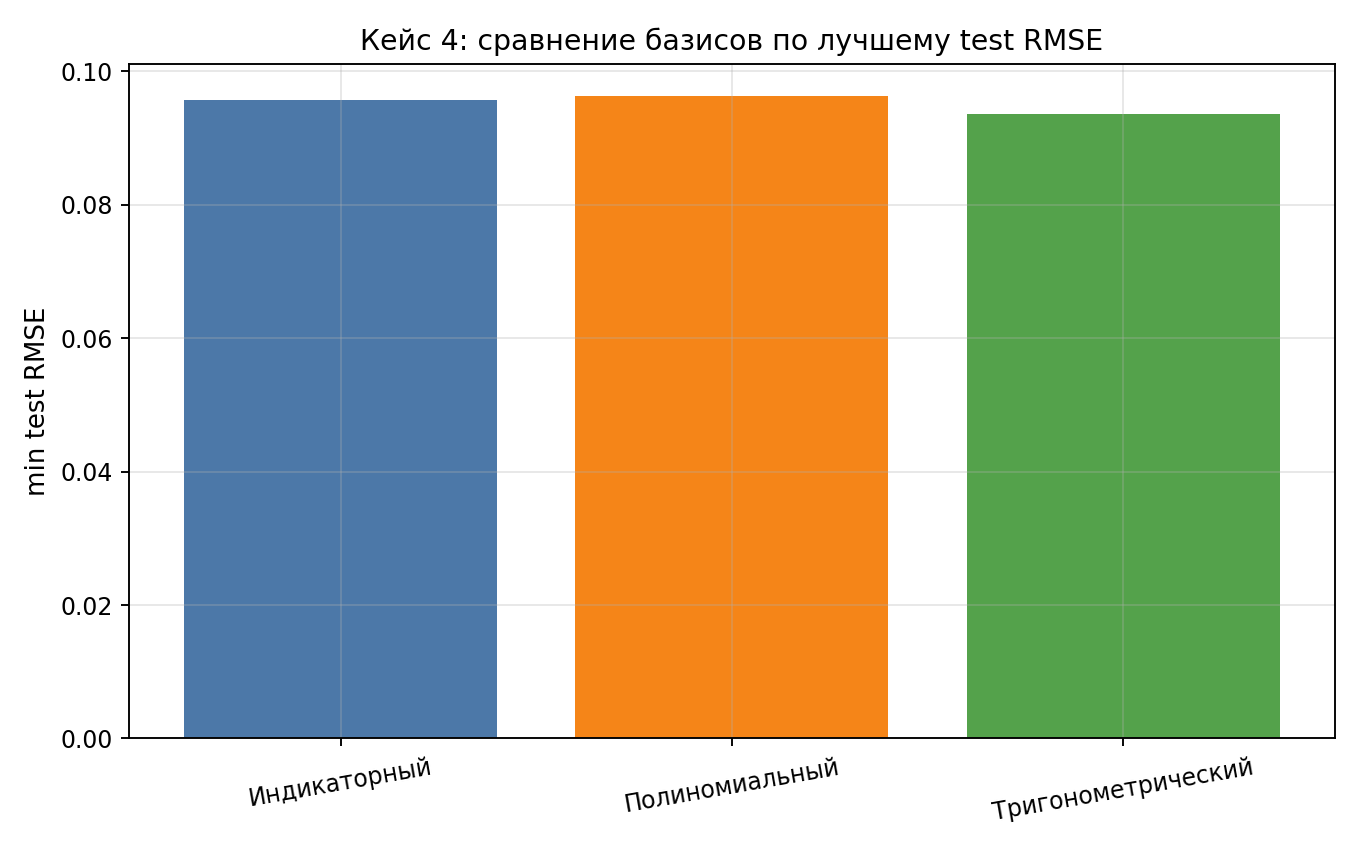
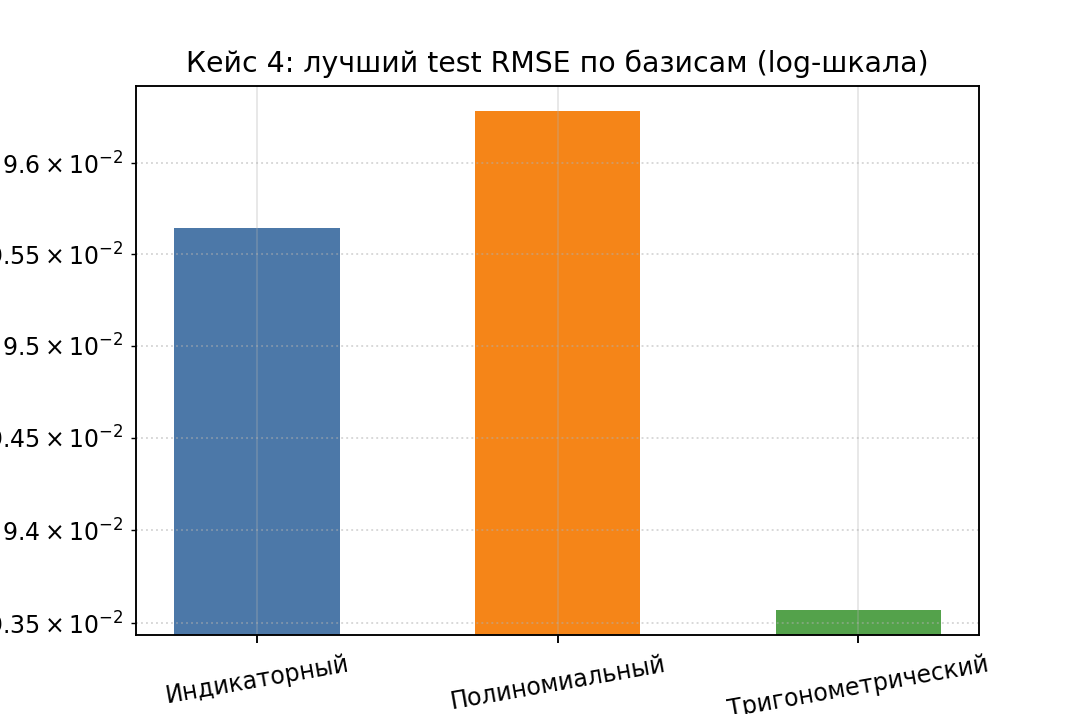
docs(report): switch to classic structure, drop email/keywords/MSC/refs
- standard layout: titlepage + tableofcontents + sections
- removed email, "ключевые слова", MSC 2020 classification
- removed all `<<`/`>>` guillemets (and Russian quotes) from text
- removed all \cite calls; bibliography reduced to the 2 ScienceDirect
  links mentioned in docs/Критерии оценивания: Journal of Functional
  Analysis and Applied Mathematical Modelling
- regenerated basis_comparison_rmse.png: log scale + numeric labels
  on bars so the 4-6x gap between bases is clearly visible

PDF: 19 pages (titlepage + TOC + abstract + 16 content), well within
the 30-page budget.

diff --git a/build_report_assets.py b/build_report_assets.py
@@ -190,13 +190,19 @@ write_csv(TAB / "linear_basis_comparison.csv",
 
 best_linear = min(best_models, key=lambda d: d["te_rmse"])
 
-plt.figure()
+plt.figure(figsize=(6.4, 4.2))
 xs = np.arange(len(basis_makers))
-plt.bar(xs, [min(rmse_curves[n]) for n in basis_makers],
-        color=["#4C78A8", "#F58518", "#54A24B"])
+vals = [min(rmse_curves[n]) for n in basis_makers]
+bars = plt.bar(xs, vals, color=["#4C78A8", "#F58518", "#54A24B"], width=0.55)
 plt.xticks(xs, list(basis_makers.keys()), rotation=10)
-plt.ylabel("min test RMSE")
-plt.title("Кейс 4: сравнение базисов по лучшему test RMSE")
+plt.ylabel("min test RMSE (log scale)")
+plt.yscale("log")
+for b, v in zip(bars, vals):
+    plt.text(b.get_x() + b.get_width() / 2, v * 1.07, f"{v:.3f}",
+             ha="center", va="bottom", fontsize=10)
+plt.title("Кейс 4: лучший test RMSE по базисам (log-шкала)")
+plt.grid(axis="y", which="both", linestyle=":", alpha=0.5)
+plt.tight_layout()
 save(FIG / "basis_comparison_rmse.png")
 
 plt.figure()